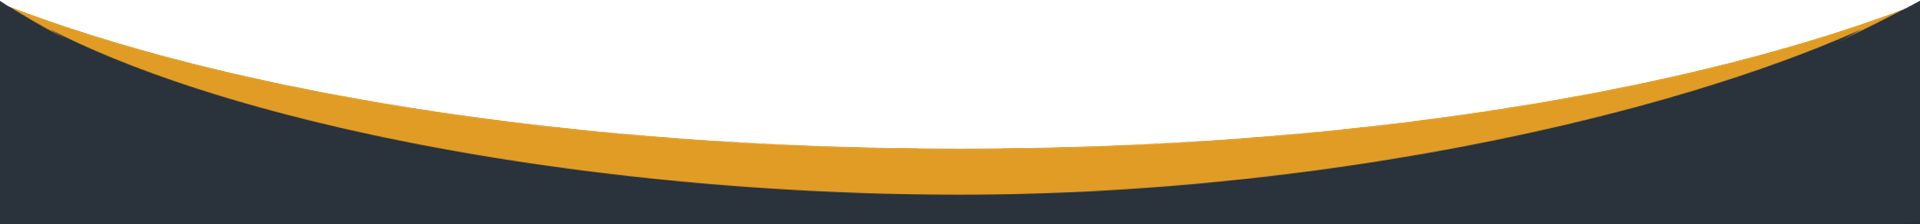
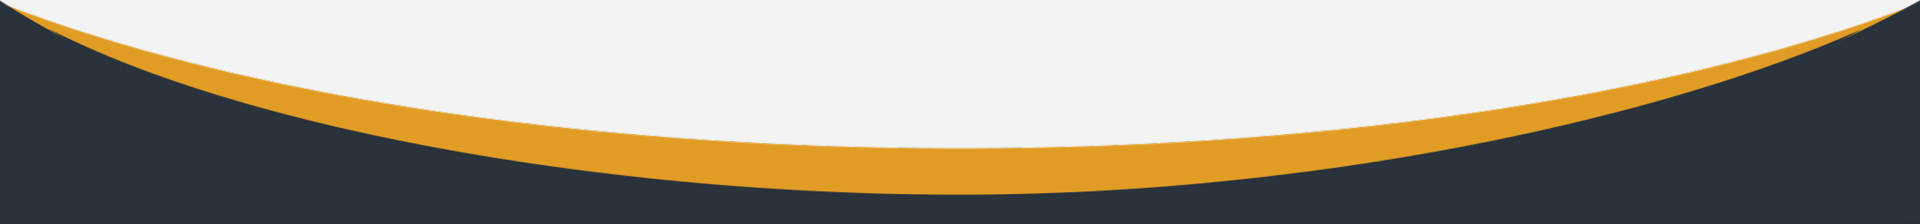
Updated frame-19840779511.png

diff --git a/src/components/AccommodationsPriceBar.tsx b/src/components/AccommodationsPriceBar.tsx
@@ -6,50 +6,47 @@ export function AccommodationsPriceBar() {
   const { hours, minutes, seconds, isExpired } = useCountdown(45);
 
   return (
-    <div className="w-full bg-[#e8e8e8]/90 rounded-b-3xl">
-      <div className="flex items-center px-4 py-3 gap-4">
-        <div className="flex-shrink-0 w-[100px] h-[85px] overflow-visible relative">
-          <div className="absolute top-1/2 left-0 -translate-y-1/2 origin-left" style={{ transform: 'translateY(-50%) scale(0.28)' }}>
-            <PriceBadge className="!transform-none" />
-          </div>
-        </div>
-
-        <div className="flex-1 min-w-0">
-          <h2 className="text-[#1a365d] text-base font-bold leading-tight mb-1">
+    <div className="w-full bg-[#e8e8e8]/90 rounded-b-3xl relative">
+      <div className="absolute left-4 -top-14">
+        <PriceBadge scale={0.4} />
+      </div>
+      <div className="flex items-center px-6 py-4">
+        <div className="flex-1 pl-[120px]">
+          <h2 className="text-[#1a365d] text-2xl font-bold leading-tight mb-3">
             Luxury All-Inclusive<br />
             Riviera Cancun Vacation
           </h2>
-          <div className="space-y-1">
-            <div className="flex items-start gap-1.5">
-              <BedIcon className="w-3.5 h-3.5 flex-shrink-0 mt-0.5 text-[#1a365d]" />
-              <span className="text-[11px] text-[#1a365d] leading-tight">
+          <div className="space-y-2">
+            <div className="flex items-start gap-2">
+              <BedIcon className="w-5 h-5 flex-shrink-0 mt-0.5 text-[#1a365d]" />
+              <span className="text-sm text-[#1a365d]">
                 <span className="font-bold">Deluxe Room for two adults at the 5-Star Hyatt Zilara Riviera Maya</span>
               </span>
             </div>
-            <div className="flex items-start gap-1.5">
-              <CocktailIcon className="w-3.5 h-3.5 flex-shrink-0 mt-0.5 text-[#1a365d]" />
-              <span className="text-[11px] text-[#1a365d] leading-tight">
-                <span className="font-bold">Unlimited-Luxury:</span>{' '}
-                Unlimited Dining, Drinks, Wifi, Entertainment & Beach Amenities!
+            <div className="flex items-start gap-2">
+              <CocktailIcon className="w-5 h-5 flex-shrink-0 mt-0.5 text-[#1a365d]" />
+              <span className="text-sm text-[#1a365d]">
+                <span className="font-bold">Unlimited-Luxury, Where Everything's Included:</span>{' '}
+                Unlimited Dining, Drinks, Wifi, Entertainment, Resort & Beach Amenities!
               </span>
             </div>
           </div>
         </div>
 
         <div className="flex-shrink-0">
-          <div className="bg-[#FFD174] rounded-lg px-3 py-2 flex items-center gap-2">
-            <Zap className="w-4 h-4 text-red-600 animate-pulse flex-shrink-0" />
+          <div className="bg-[#FFD174] rounded-lg px-6 py-3 flex items-center gap-3 min-w-[280px]">
+            <Zap className="w-5 h-5 text-red-600 animate-pulse flex-shrink-0" />
             <div className="flex flex-col items-center">
-              <span className="text-slate-900 font-bold text-xs uppercase tracking-wide">
+              <span className="text-slate-900 font-bold text-sm uppercase tracking-wide">
                 {isExpired ? 'Offer expired' : 'Offer expires:'}
               </span>
               {!isExpired && (
-                <div className="flex items-center gap-0.5 font-bold text-red-600 text-xl tabular-nums">
-                  <span className="min-w-[24px] text-center">{hours}</span>
+                <div className="flex items-center gap-0.5 font-bold text-red-600 text-2xl tabular-nums">
+                  <span className="min-w-[32px] text-center">{hours}</span>
                   <span className="animate-pulse">:</span>
-                  <span className="min-w-[24px] text-center">{minutes}</span>
+                  <span className="min-w-[32px] text-center">{minutes}</span>
                   <span className="animate-pulse">:</span>
-                  <span className="min-w-[24px] text-center">{seconds}</span>
+                  <span className="min-w-[32px] text-center">{seconds}</span>
                 </div>
               )}
             </div>
